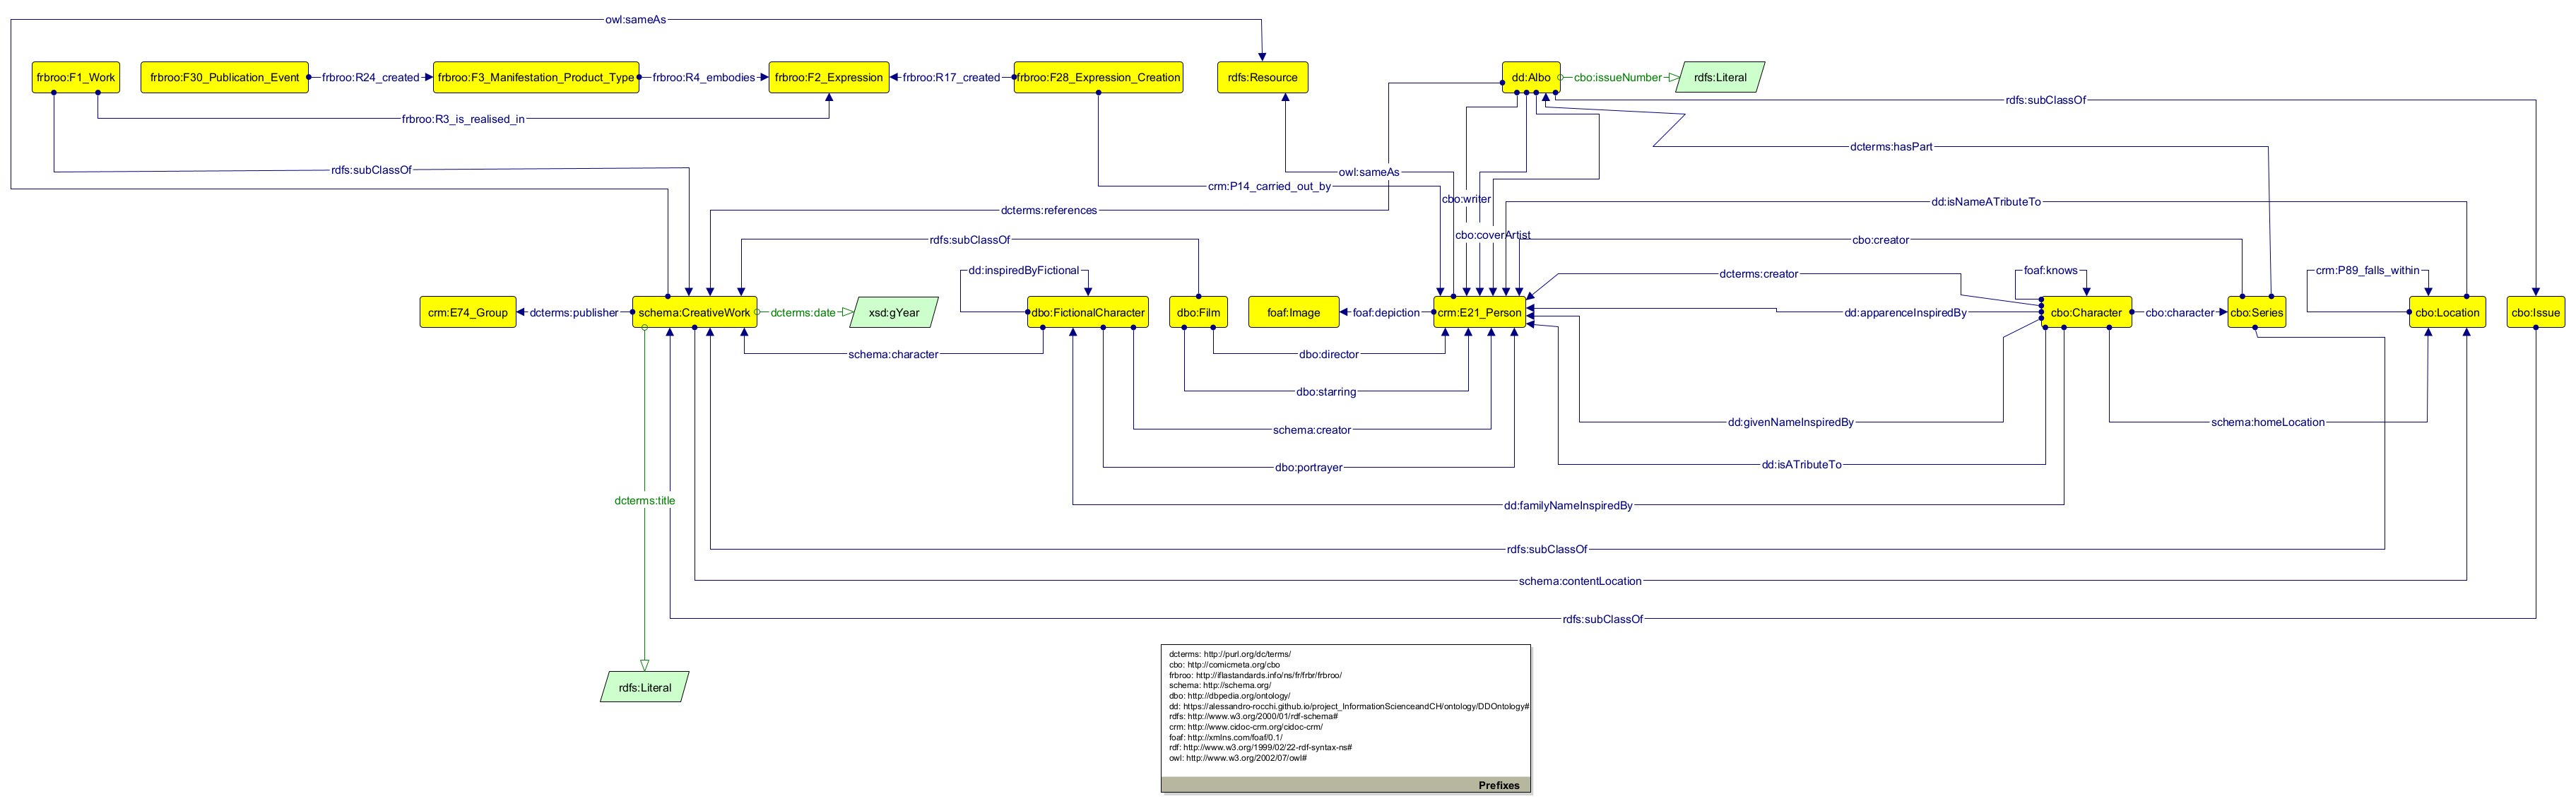
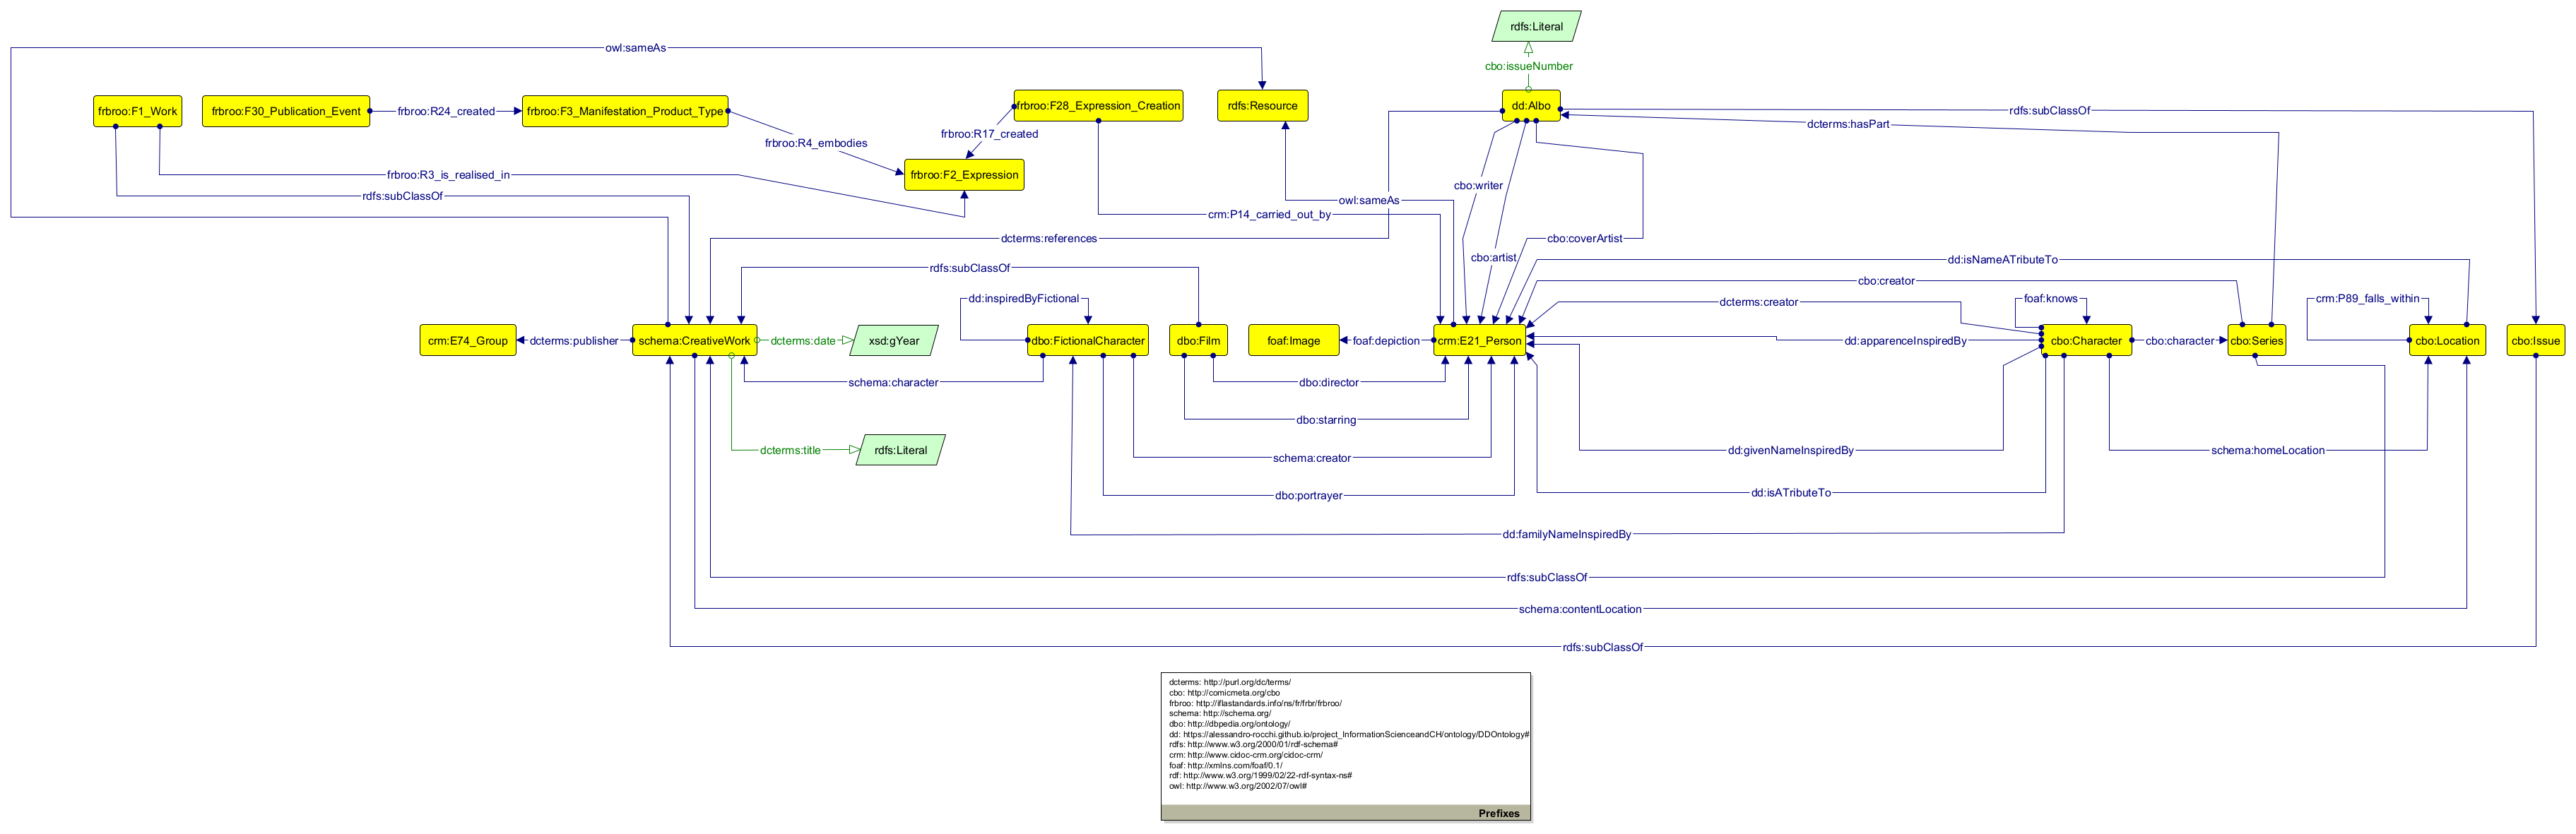
refactor

diff --git a/index.html b/index.html
@@ -380,7 +380,7 @@
                 <div class="row mt-4">
                     <div class="col-12">
                         <p>I modeled my personal ontology using Protégé in order to achieve a valid, robust result and to take full advantage of the program's features. This allowed me to achieve a consistent and accurate result.</p>
-                        <a class="btn btn-dark" href="https://github.com/Alessandro-Rocchi/project_InformationScienceandCH/blob/66b59b8acb53cc717a55c2c704e663e7c1493350/ontology/DDOntology.ttl" role="button" target="_blank">View the Ontology file! 🌐</a>
+                        <a class="btn btn-dark" href="https://github.com/Alessandro-Rocchi/project_InformationScienceandCH/blob/main/ontology/DDOntology.ttl" role="button" target="_blank">View the Ontology file! 🌐</a>
                     </div>
                 </div>
                 <div class="row mt-4">